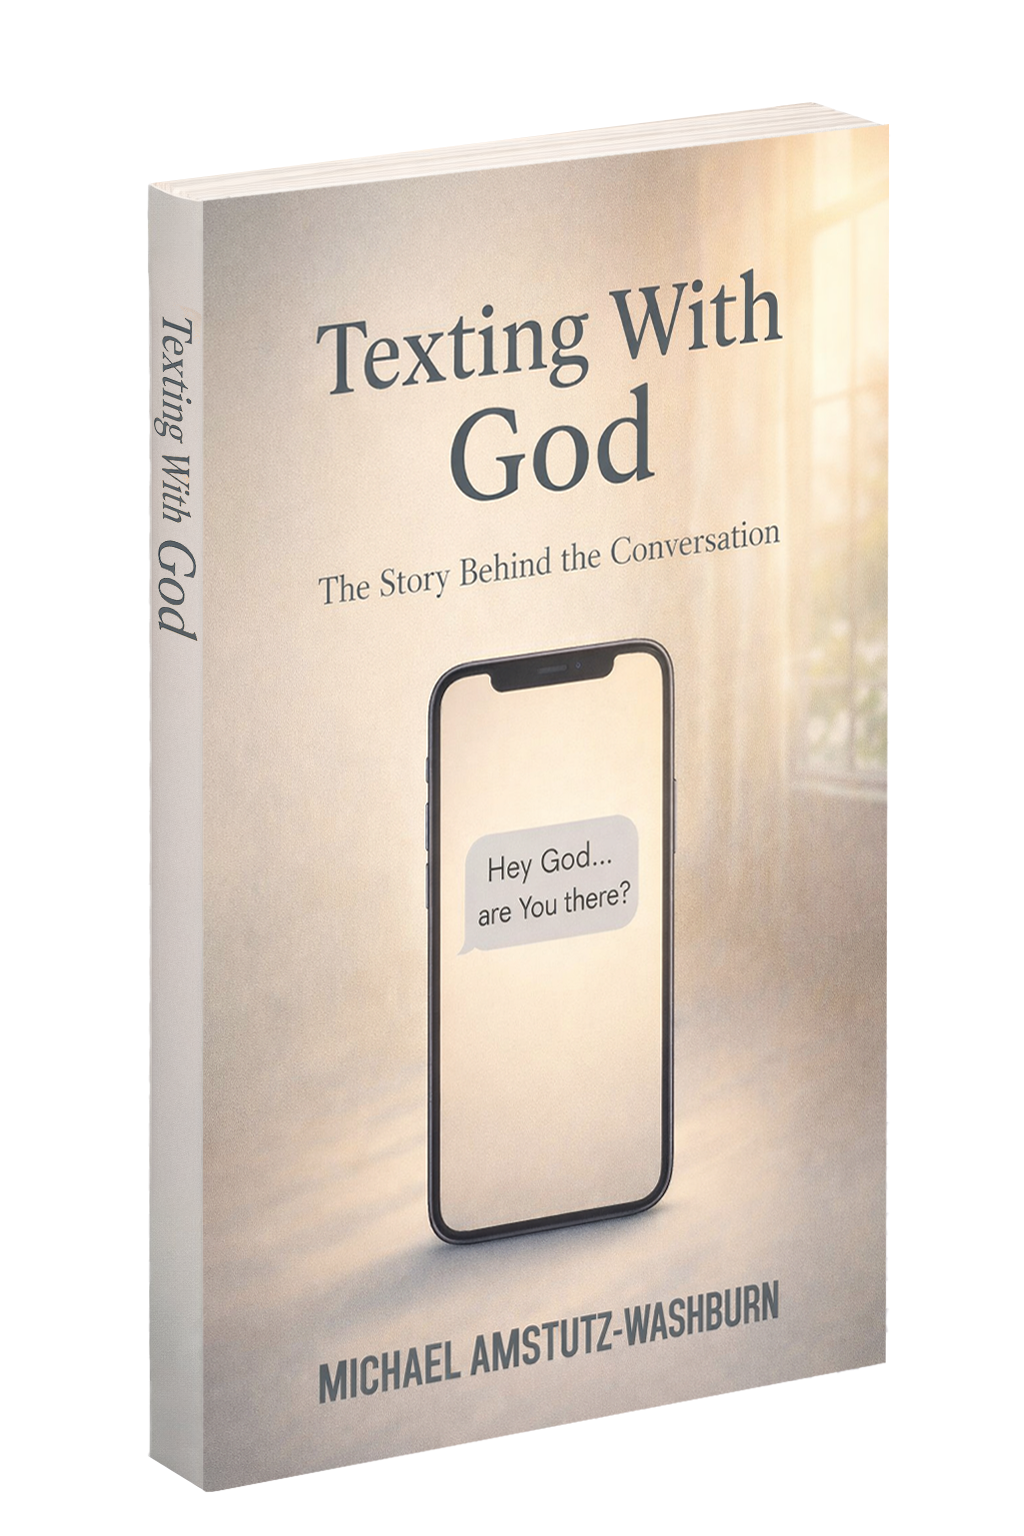
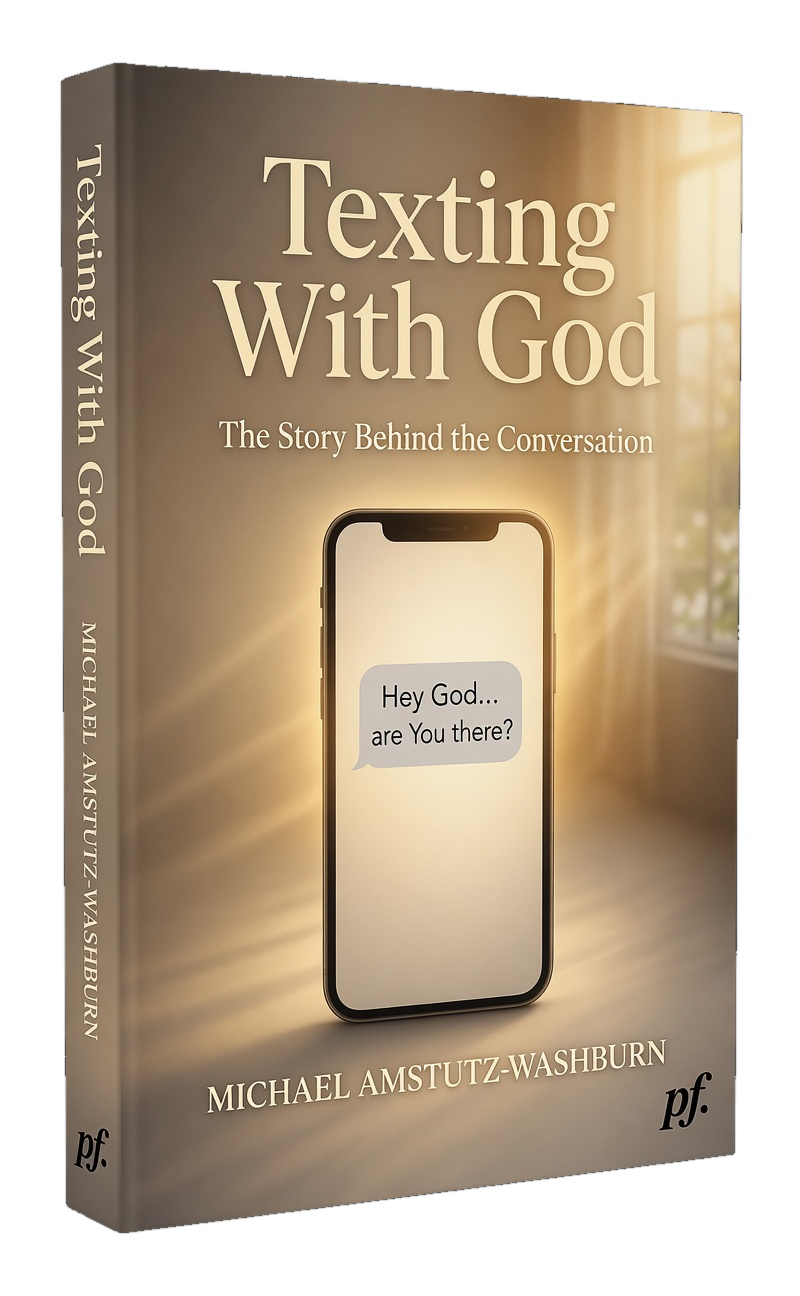
feat: feature The Counterfeit Light + transparent book covers
- Add The Counterfeit Light to /books and /ebooks listings (previously only in bookDetails, so it was unreachable from the listing pages)
- Wire in new flat cover (hero/background) + 3D mockup (grid thumbnail)
- Convert 4 JPG 3D mockups to transparent PNGs to remove baked-in black background:
  texting-with-god, when-the-grace-lifts, weight-of-yes, after-the-breakthrough

diff --git a/src/pages/Books.jsx b/src/pages/Books.jsx
@@ -3,14 +3,25 @@ import { ArrowRight, BookOpen, Download, Check, Mail } from 'lucide-react'
 import { Link } from 'react-router-dom'
 import { trackConversion } from '../lib/analytics'
 import overcomerCover from '../assets/overcomer-cover-3d.png'
-import graceLiftsCover from '../assets/when-the-grace-lifts-3d.jpg'
-import weightOfYesCover from '../assets/weight-of-yes-3d.jpg'
-import afterBreakthroughCover from '../assets/after-the-breakthrough-3d.jpg'
-import textingGodCover from '../assets/texting-with-god-3d.jpg'
+import graceLiftsCover from '../assets/when-the-grace-lifts-3d.png'
+import weightOfYesCover from '../assets/weight-of-yes-3d.png'
+import afterBreakthroughCover from '../assets/after-the-breakthrough-3d.png'
+import textingGodCover from '../assets/texting-with-god-3d.png'
 import ravenCover from '../assets/wheres-my-raven.png'
+import counterfeitLightCover from '../assets/counterfeit-light-3d.png'
 import { usePageTitle } from '../hooks/usePageTitle'
 
 const books = [
+  {
+    cover: counterfeitLightCover,
+    title: 'The Counterfeit Light',
+    slug: 'the-counterfeit-light',
+    subtitle: 'How to Tell the Light From Its Shadow',
+    description: 'Written by someone who spent forty years moving through religions and spiritual experiences that felt real but never loved him back. A field guide for sincere seekers learning to tell the true Light from its convincing counterfeit.',
+    status: 'available',
+    epub: '/The Counterfeit Light-wmO5aOUwgh.epub',
+    filename: 'The Counterfeit Light - Amburn Ministries.epub',
+  },
   {
     cover: overcomerCover,
     title: 'Overcomer',

diff --git a/src/data/bookDetails.js b/src/data/bookDetails.js
@@ -1,22 +1,23 @@
 import counterfeitLightCover from '../assets/counterfeit-light.png'
+import counterfeitLight3d from '../assets/counterfeit-light-3d.png'
 import ravenCover from '../assets/wheres-my-raven.png'
 import overcomerCover3d from '../assets/overcomer-cover-3d.png'
 import overcomerCover from '../assets/overcomer-cover.png'
-import graceLiftsCover3d from '../assets/when-the-grace-lifts-3d.jpg'
+import graceLiftsCover3d from '../assets/when-the-grace-lifts-3d.png'
 import graceLiftsCover from '../assets/when-the-grace-lifts.jpg'
 import graceLiftsPromo from '../assets/grace-lifts-promo.jpg'
-import weightOfYesCover3d from '../assets/weight-of-yes-3d.jpg'
+import weightOfYesCover3d from '../assets/weight-of-yes-3d.png'
 import weightOfYesCover from '../assets/weight-of-yes.jpg'
-import afterBreakthroughCover3d from '../assets/after-the-breakthrough-3d.jpg'
+import afterBreakthroughCover3d from '../assets/after-the-breakthrough-3d.png'
 import afterBreakthroughCover from '../assets/after-the-breakthrough.jpg'
-import textingGodCover3d from '../assets/texting-with-god-3d.jpg'
+import textingGodCover3d from '../assets/texting-with-god-3d.png'
 import textingGodCover from '../assets/texting-with-god.jpg'
 import textingGodPromo from '../assets/texting-with-god-promo.jpg'
 
 export const bookDetails = [
   {
     slug: 'the-counterfeit-light',
-    cover3d: counterfeitLightCover,
+    cover3d: counterfeitLight3d,
     cover: counterfeitLightCover,
     promo: counterfeitLightCover,
     title: 'The Counterfeit Light',

diff --git a/src/pages/Ebooks.jsx b/src/pages/Ebooks.jsx
@@ -3,14 +3,23 @@ import { BookOpen, Download, ArrowRight, Check, Mail } from 'lucide-react'
 import { Link } from 'react-router-dom'
 import { trackConversion } from '../lib/analytics'
 import overcomerCover from '../assets/overcomer-cover-3d.png'
-import graceLiftsCover from '../assets/when-the-grace-lifts-3d.jpg'
-import weightOfYesCover from '../assets/weight-of-yes-3d.jpg'
-import afterBreakthroughCover from '../assets/after-the-breakthrough-3d.jpg'
-import textingGodCover from '../assets/texting-with-god-3d.jpg'
+import graceLiftsCover from '../assets/when-the-grace-lifts-3d.png'
+import weightOfYesCover from '../assets/weight-of-yes-3d.png'
+import afterBreakthroughCover from '../assets/after-the-breakthrough-3d.png'
+import textingGodCover from '../assets/texting-with-god-3d.png'
 import ravenCover from '../assets/wheres-my-raven.png'
+import counterfeitLightCover from '../assets/counterfeit-light-3d.png'
 import { usePageTitle } from '../hooks/usePageTitle'
 
 const ebooks = [
+  {
+    cover: counterfeitLightCover,
+    title: 'The Counterfeit Light',
+    subtitle: 'How to Tell the Light From Its Shadow',
+    description: 'A field guide for sincere seekers — how to tell the true Light from its convincing counterfeit, from someone who spent forty years searching.',
+    epub: '/The Counterfeit Light-wmO5aOUwgh.epub',
+    filename: 'The Counterfeit Light - Amburn Ministries.epub',
+  },
   {
     cover: overcomerCover,
     title: 'Overcomer',

diff --git a/src/pages/Store.jsx b/src/pages/Store.jsx
@@ -1,10 +1,10 @@
 import { useState } from 'react'
 import { Download, Check, Mail } from 'lucide-react'
 import { trackConversion } from '../lib/analytics'
-import textingCover from '../assets/texting-with-god-3d.jpg'
-import graceLiftsCover from '../assets/when-the-grace-lifts-3d.jpg'
-import weightCover from '../assets/weight-of-yes-3d.jpg'
-import breakthroughCover from '../assets/after-the-breakthrough-3d.jpg'
+import textingCover from '../assets/texting-with-god-3d.png'
+import graceLiftsCover from '../assets/when-the-grace-lifts-3d.png'
+import weightCover from '../assets/weight-of-yes-3d.png'
+import breakthroughCover from '../assets/after-the-breakthrough-3d.png'
 import ravenCover from '../assets/wheres-my-raven.png'
 import overcomerCover from '../assets/overcomer-cover-3d.png'
 import { usePageTitle } from '../hooks/usePageTitle'
